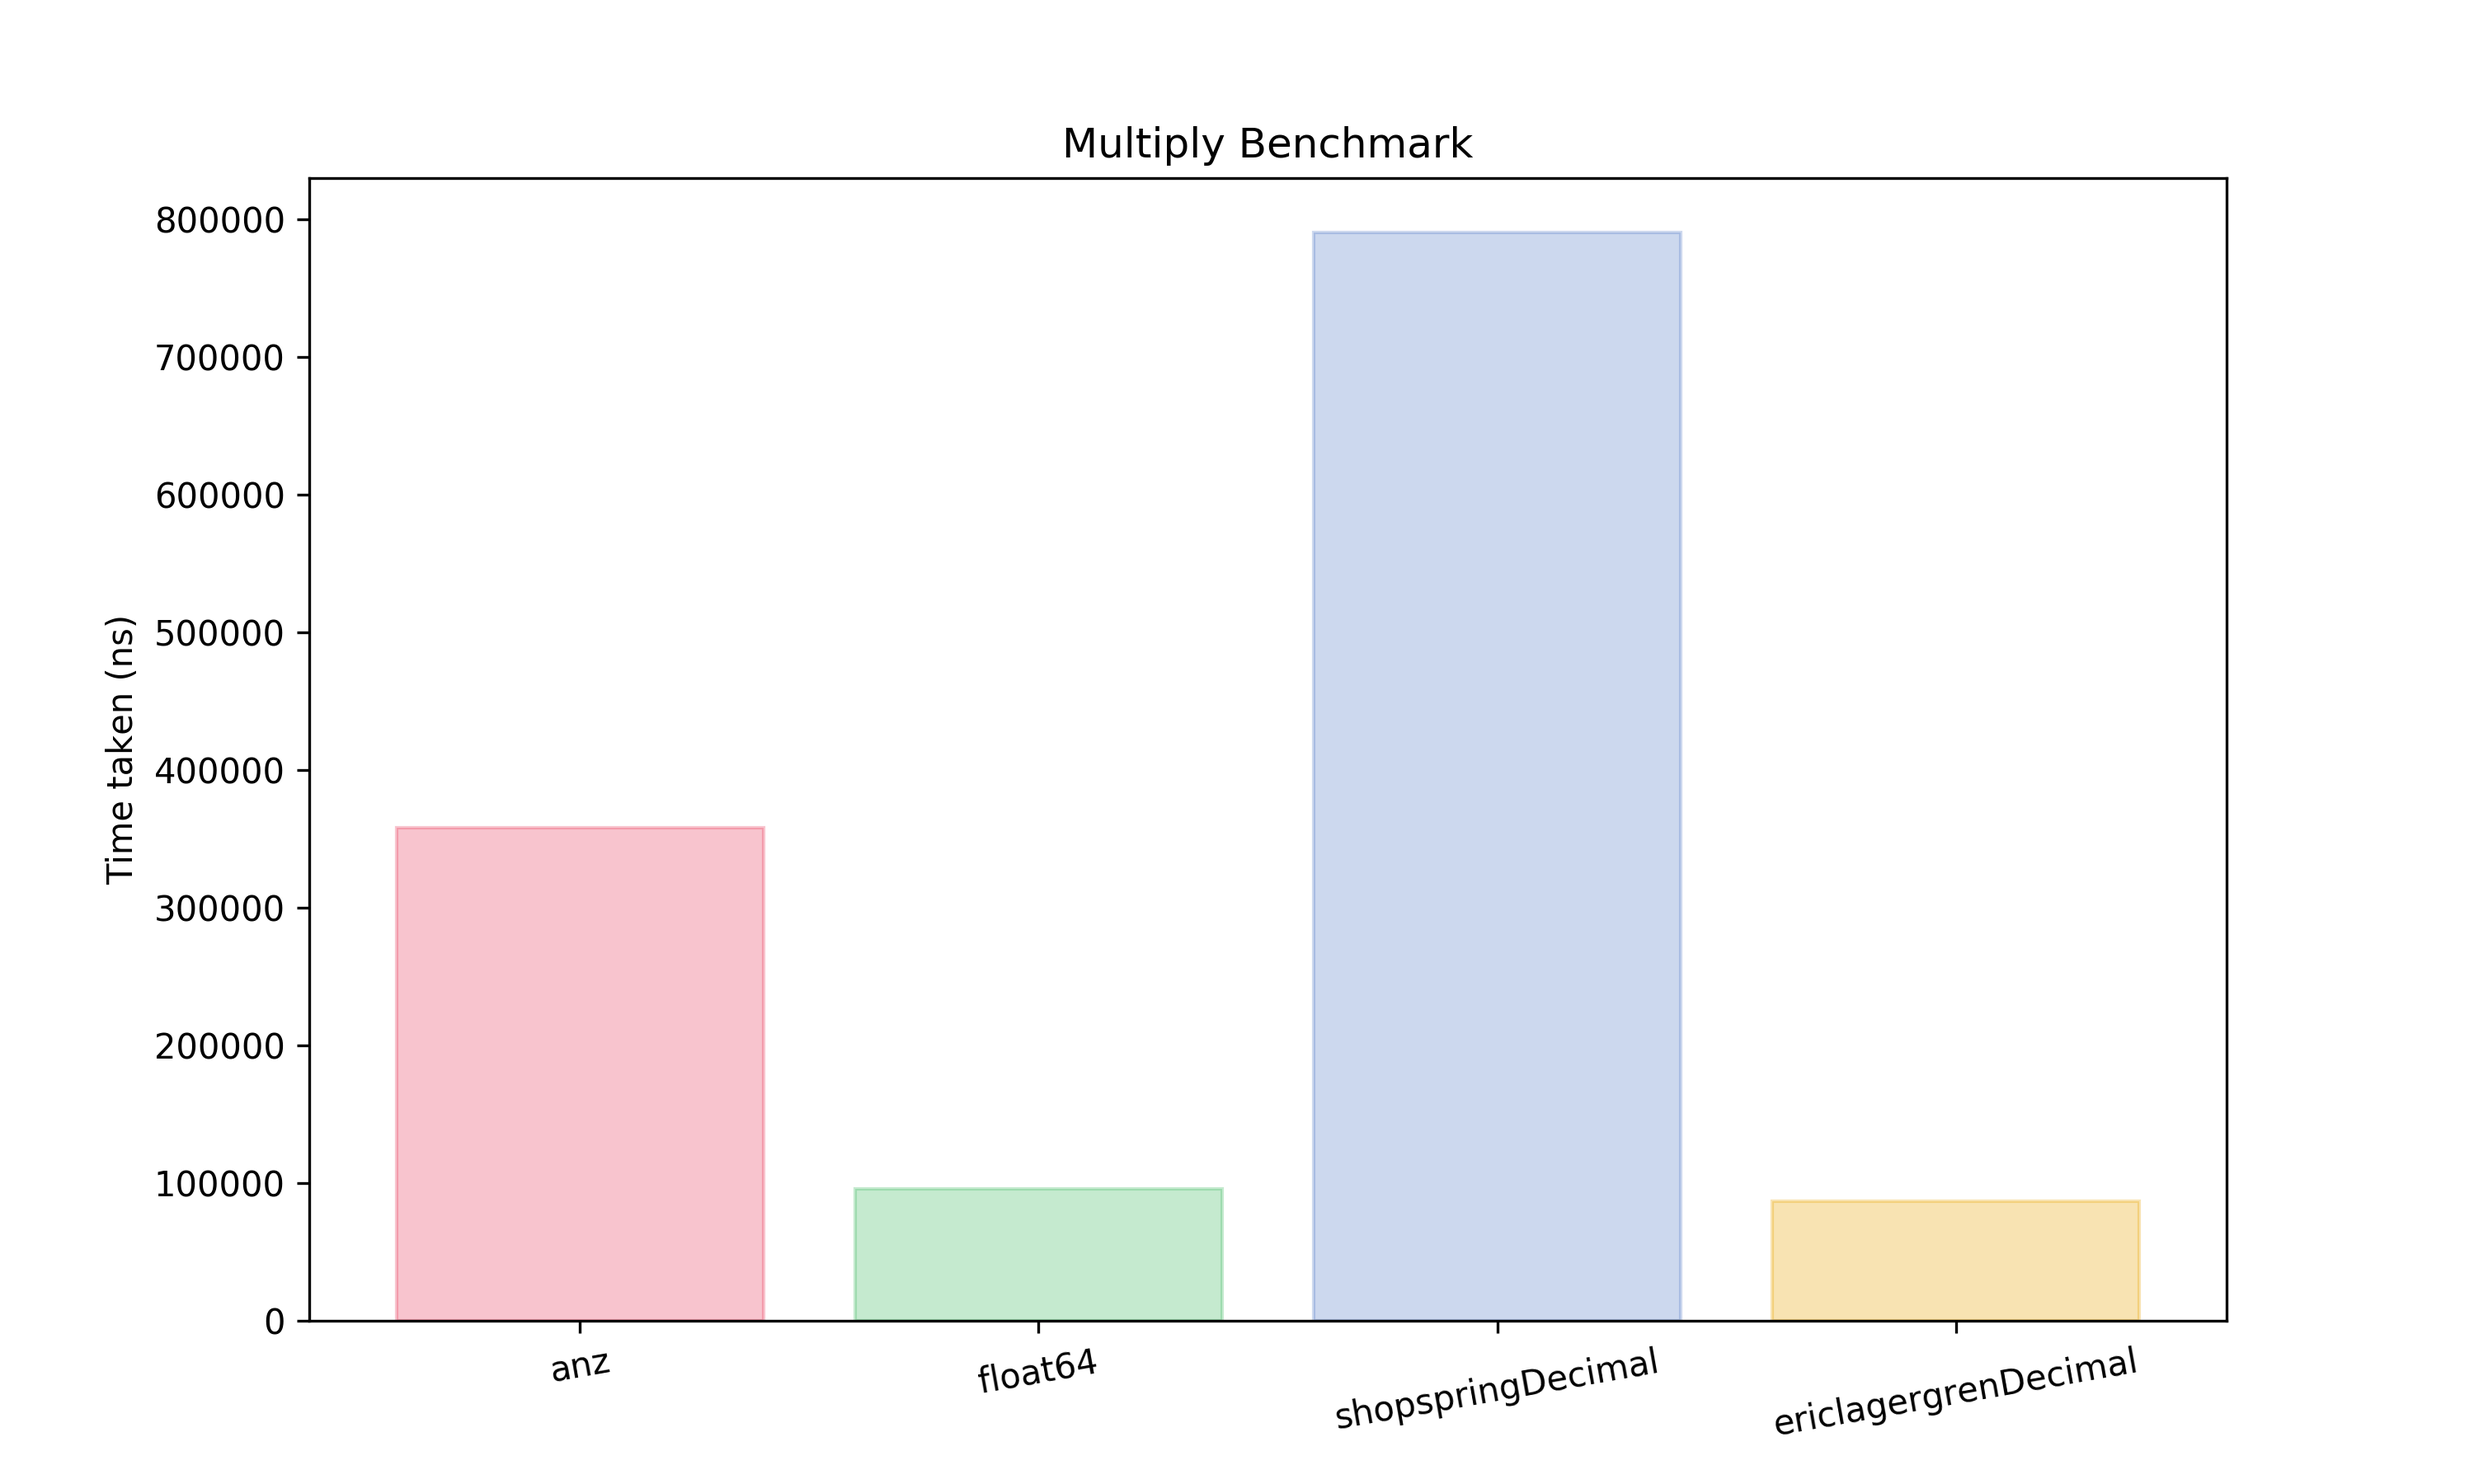
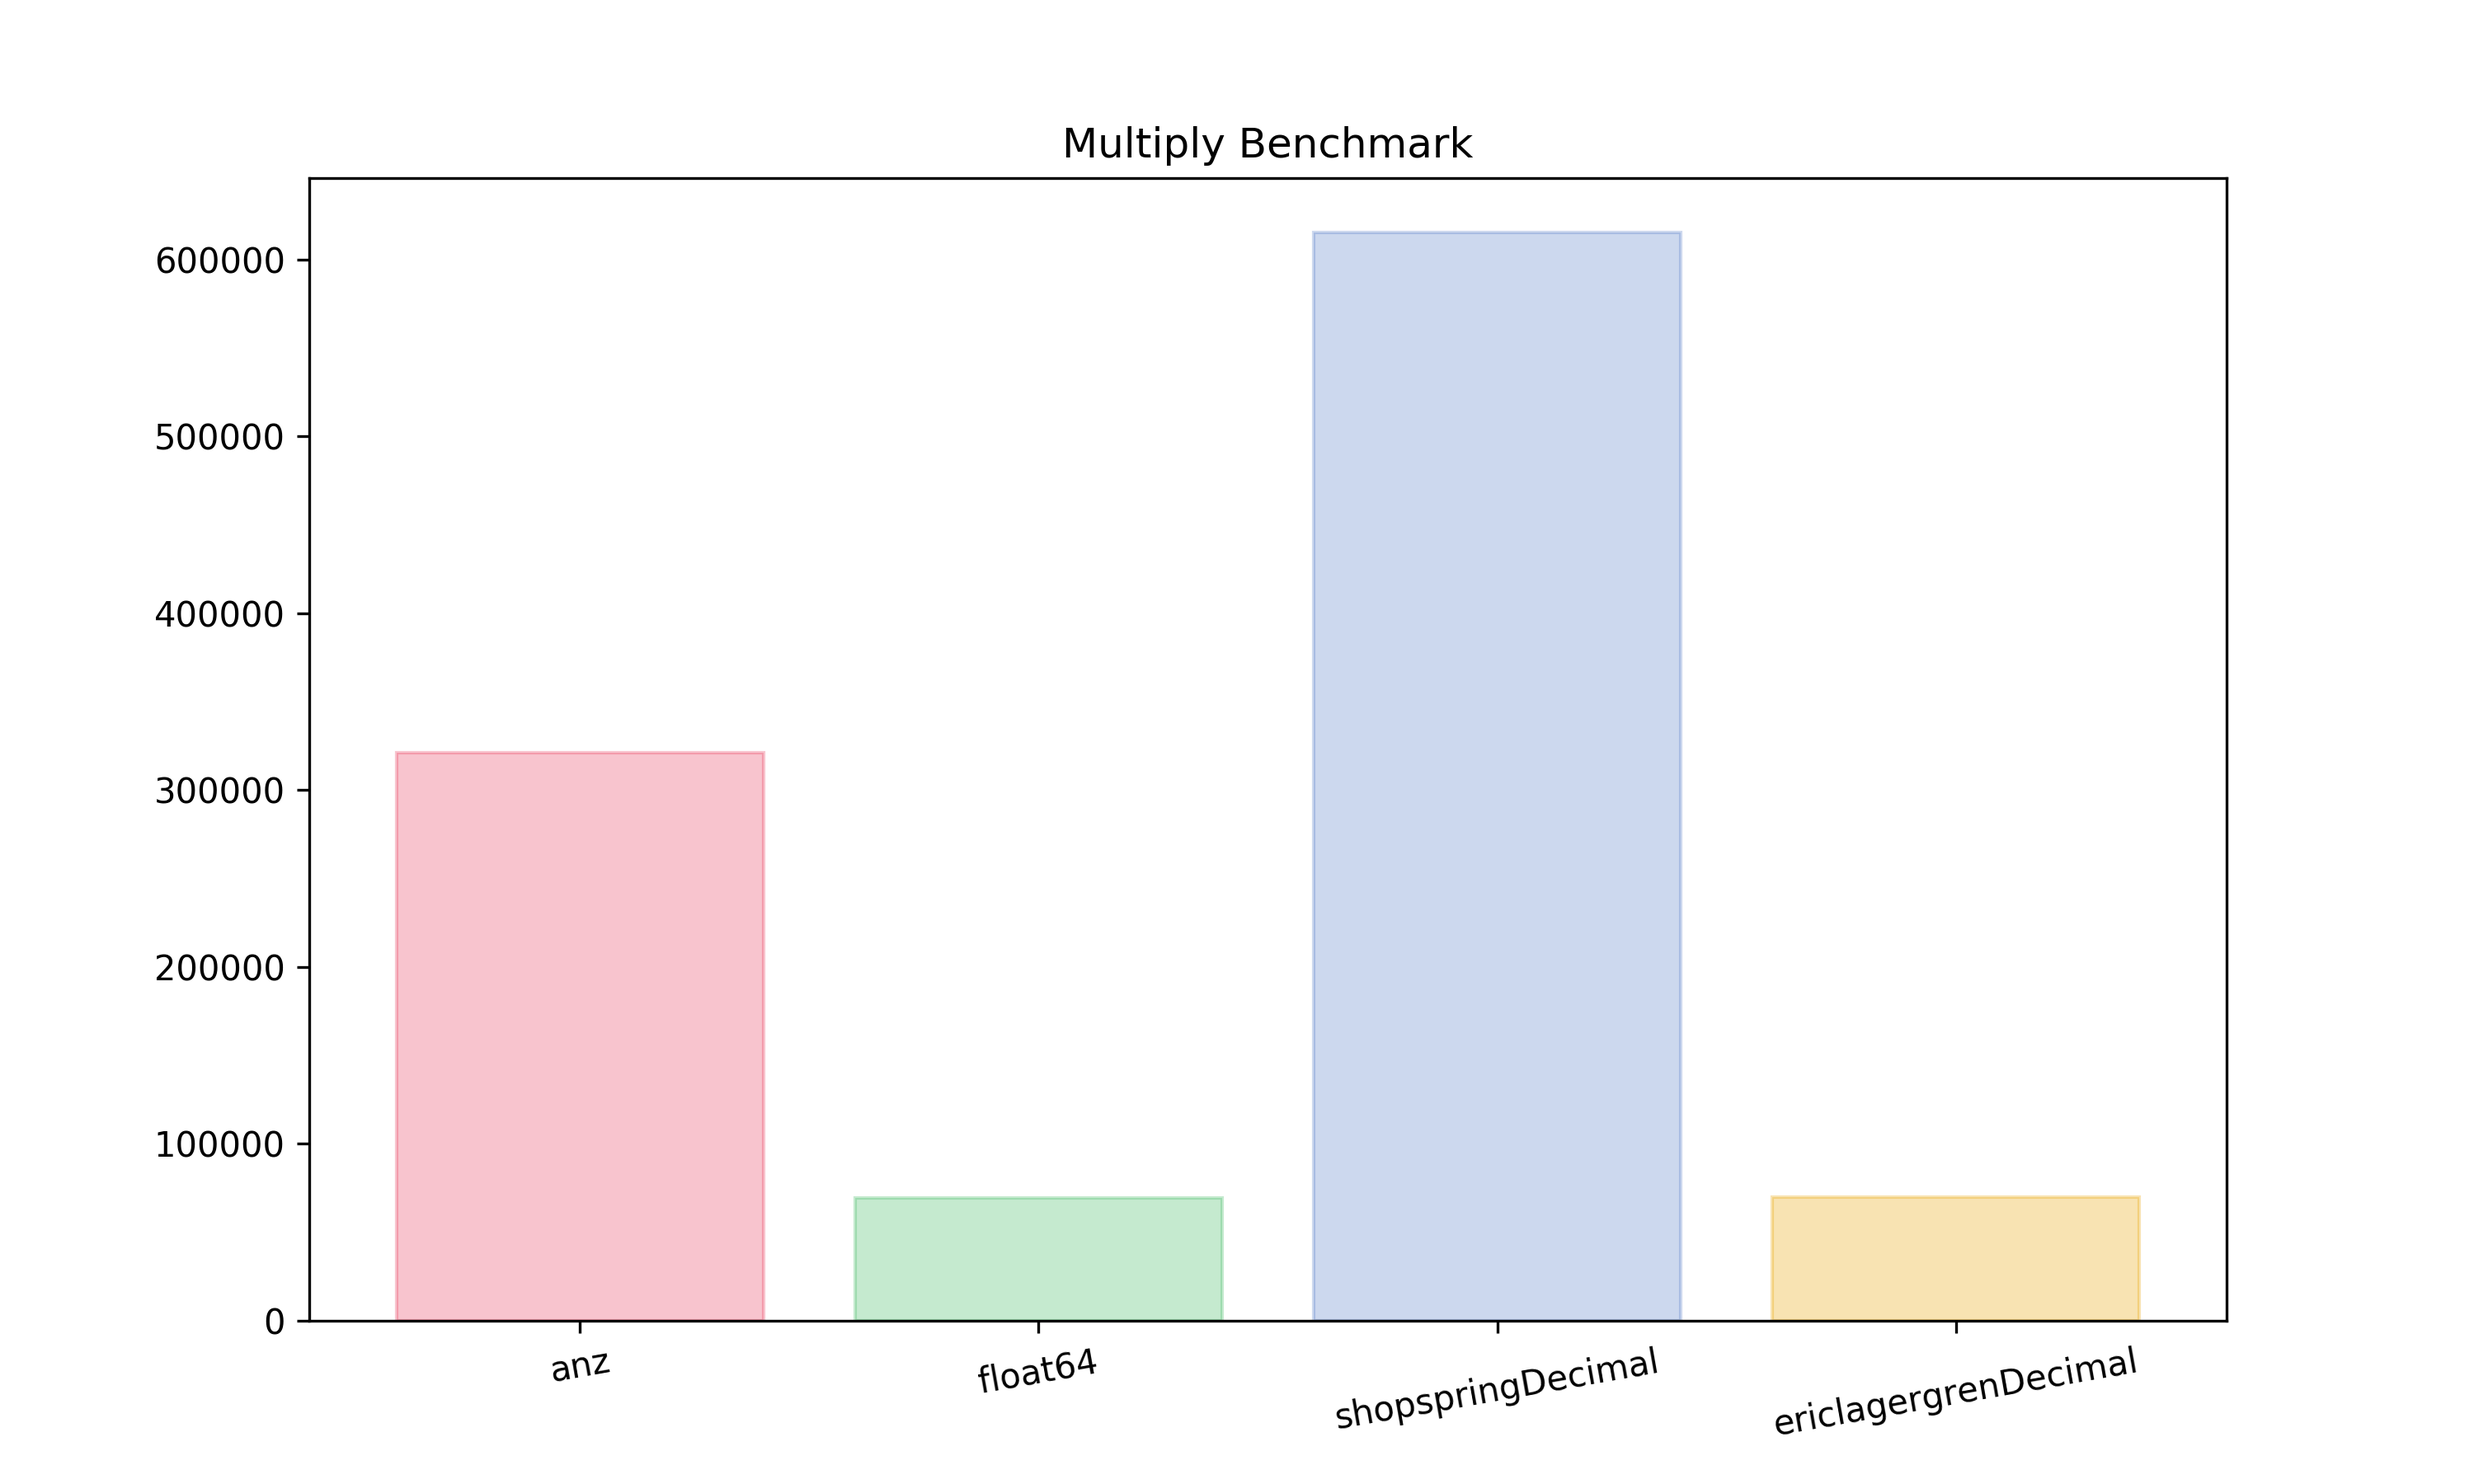
Attempt to fix testing

diff --git a/examples/benchmark/benchmarkSuite_test.go b/examples/benchmark/benchmarkSuite_test.go
@@ -57,15 +57,16 @@ func BenchmarkDecimal(b *testing.B) {
 
 		for scanner.Scan() {
 			testVal := getInput(scanner.Text())
+			if testVal.testName != "" {
+				// for every type
+				for _, t := range typelist {
 
-			// for every type
-			for _, t := range typelist {
+					// Convert string to type t
+					a, b := ParseDecimal(testVal.val1, testVal.val2, t)
 
-				// Convert string to type t
-				a, b := ParseDecimal(testVal.val1, testVal.val2, t)
-
-				// Add to map
-				typeMap[reflect.TypeOf(t)] = append(typeMap[reflect.TypeOf(t)], testcase{testVal.testFunc, a, b})
+					// Add to map
+					typeMap[reflect.TypeOf(t)] = append(typeMap[reflect.TypeOf(t)], testcase{testVal.testFunc, a, b})
+				}
 			}
 		}
 
@@ -99,8 +100,14 @@ func ParseDecimal(val1, val2 string, v interface{}) (a, b interface{}) {
 		b, _ = shopspring.NewFromString(val2)
 	case ericlagergren.Big:
 		c := ericlagergren.Big{}
+		d := ericlagergren.Big{}
+		// var err, err2 bool
 		a, _ = c.SetString(val1)
-		b, _ = c.SetString(val2)
+		b, _ = d.SetString(val2)
+
+		if a == nil || b == nil {
+			panic(val1 + val2)
+		}
 	default:
 
 	}

diff --git a/examples/benchmark/graph.py b/examples/benchmark/graph.py
@@ -53,7 +53,7 @@ def generate_graph(responsetime_filename):
         plt.xticks(x, element.LibraryName)
         plt.xticks(rotation=10)
         plt.title(name + " Benchmark")
-        plt.ylabel('Time taken (ns)')
+        # plt.ylabel('Time taken (ns)')
         plt.savefig(os.path.abspath('../../content/')+f"/img/{name}.png", dpi=300, figsize=(50,25))
 
 # os.system("go test -bench=. > results.txt")
